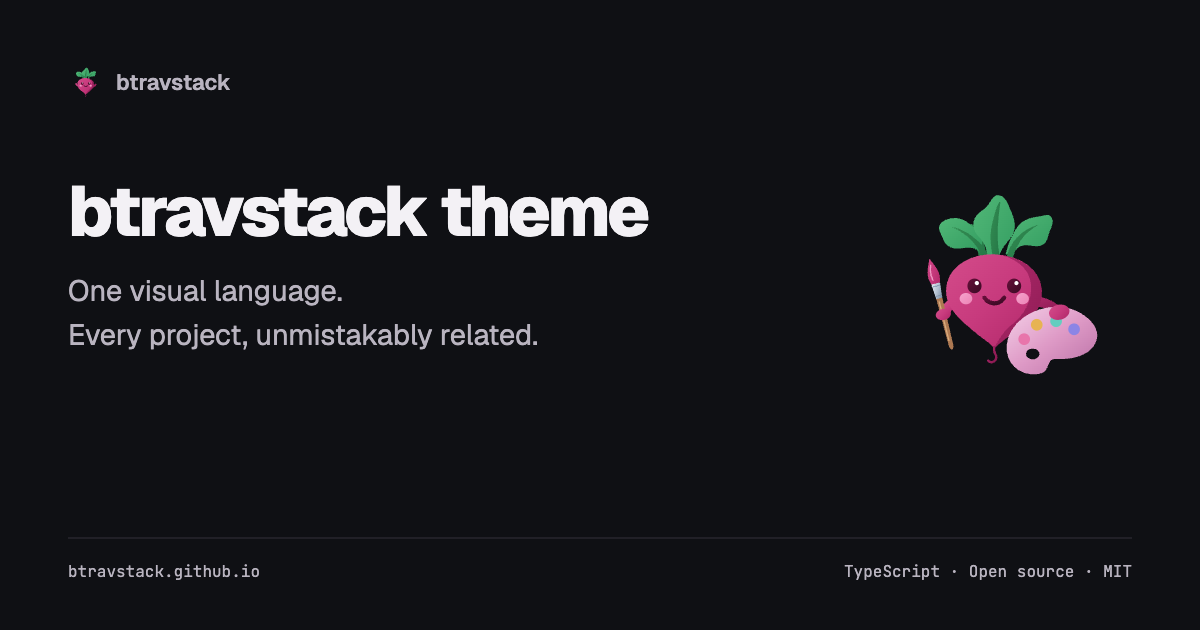
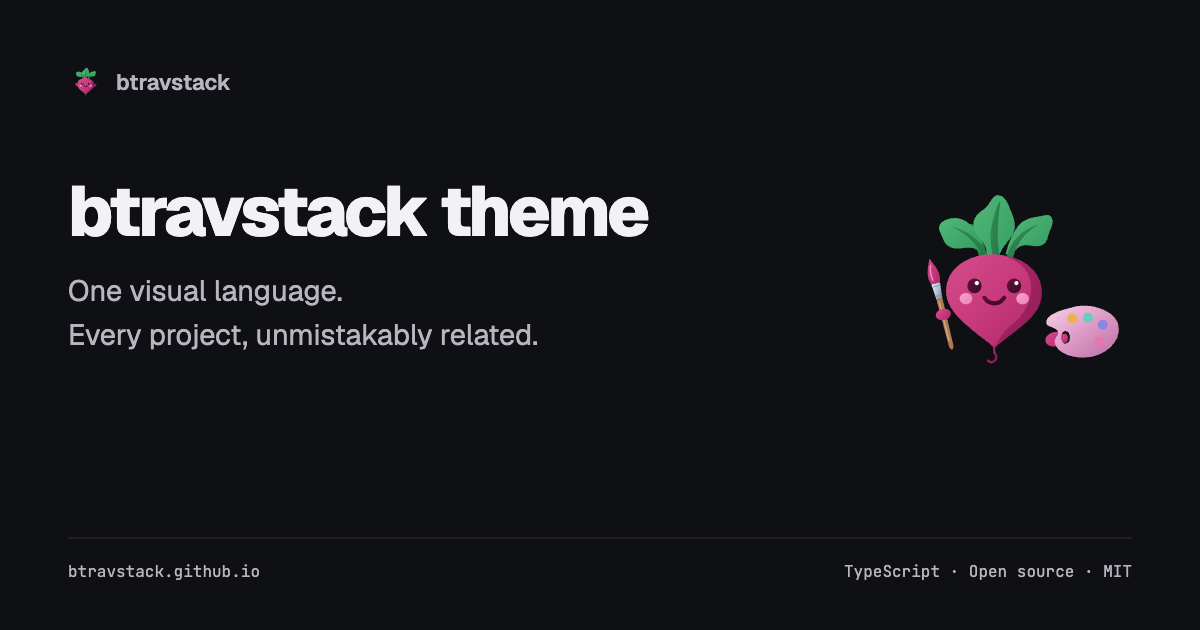
fix: restore rounded beet mascots and floating hands

Changed region(s): [[0.8325, 0.4524, 0.9558, 0.6032]]

diff --git a/design.md b/design.md
@@ -116,13 +116,15 @@ Every project keeps its original motif: unthrown's no-throw sign, entity's
 identity card, di's syringe, AMQP's envelope, and Temporal's hourglass. Entity
 peeks over the bottom of its photo, with both paws resting on the frame.
 Temporal's beet has no leaves: the pink liquid flows through the hourglass and
-forms its body below. DI likewise holds a leafless beet melting into the
-syringe's liquid, with a small separate drop below the needle. AMQP keeps a
-simple light envelope fold without extra diagonal seams.
+forms a small rounded dome at the bottom, with eyes and a smile. DI keeps
+the same small dome at the needle end, with a small separate drop below it.
+AMQP keeps a simple light envelope fold without extra diagonal seams.
 
 Tools carries a straight open-end wrench with a clearly defined jaw and grip.
-The shared theme holds a brush in one hand and a palette in the other; the
-brush has separate bristles, a metal ferrule, and a wooden handle. The umbrella
+Tools and the shared theme have floating hands with no arms. The theme holds
+a brush in one hand and the palette by its thumb hole in the other, with the
+paint arranged on the outer rim. The brush has separate bristles, a metal
+ferrule, and a wooden handle. The umbrella
 mascot is the same beet without a project prop. Do not replace the characters with
 abstract glyphs or recolor their bodies to the project's accent.
 
